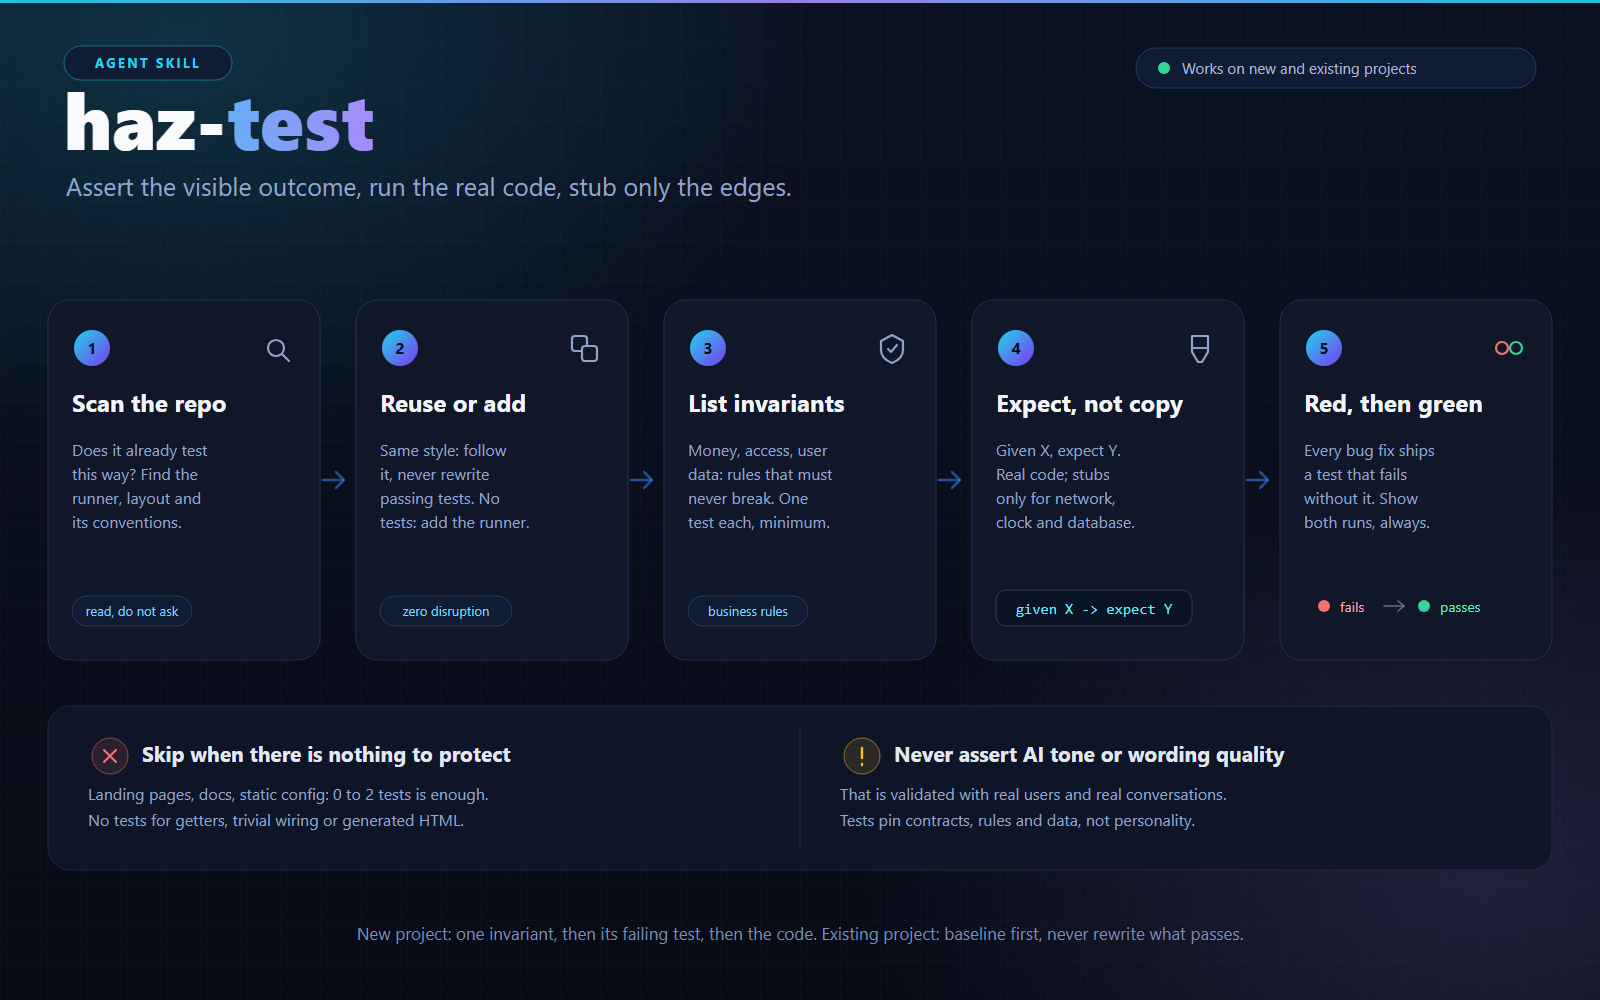
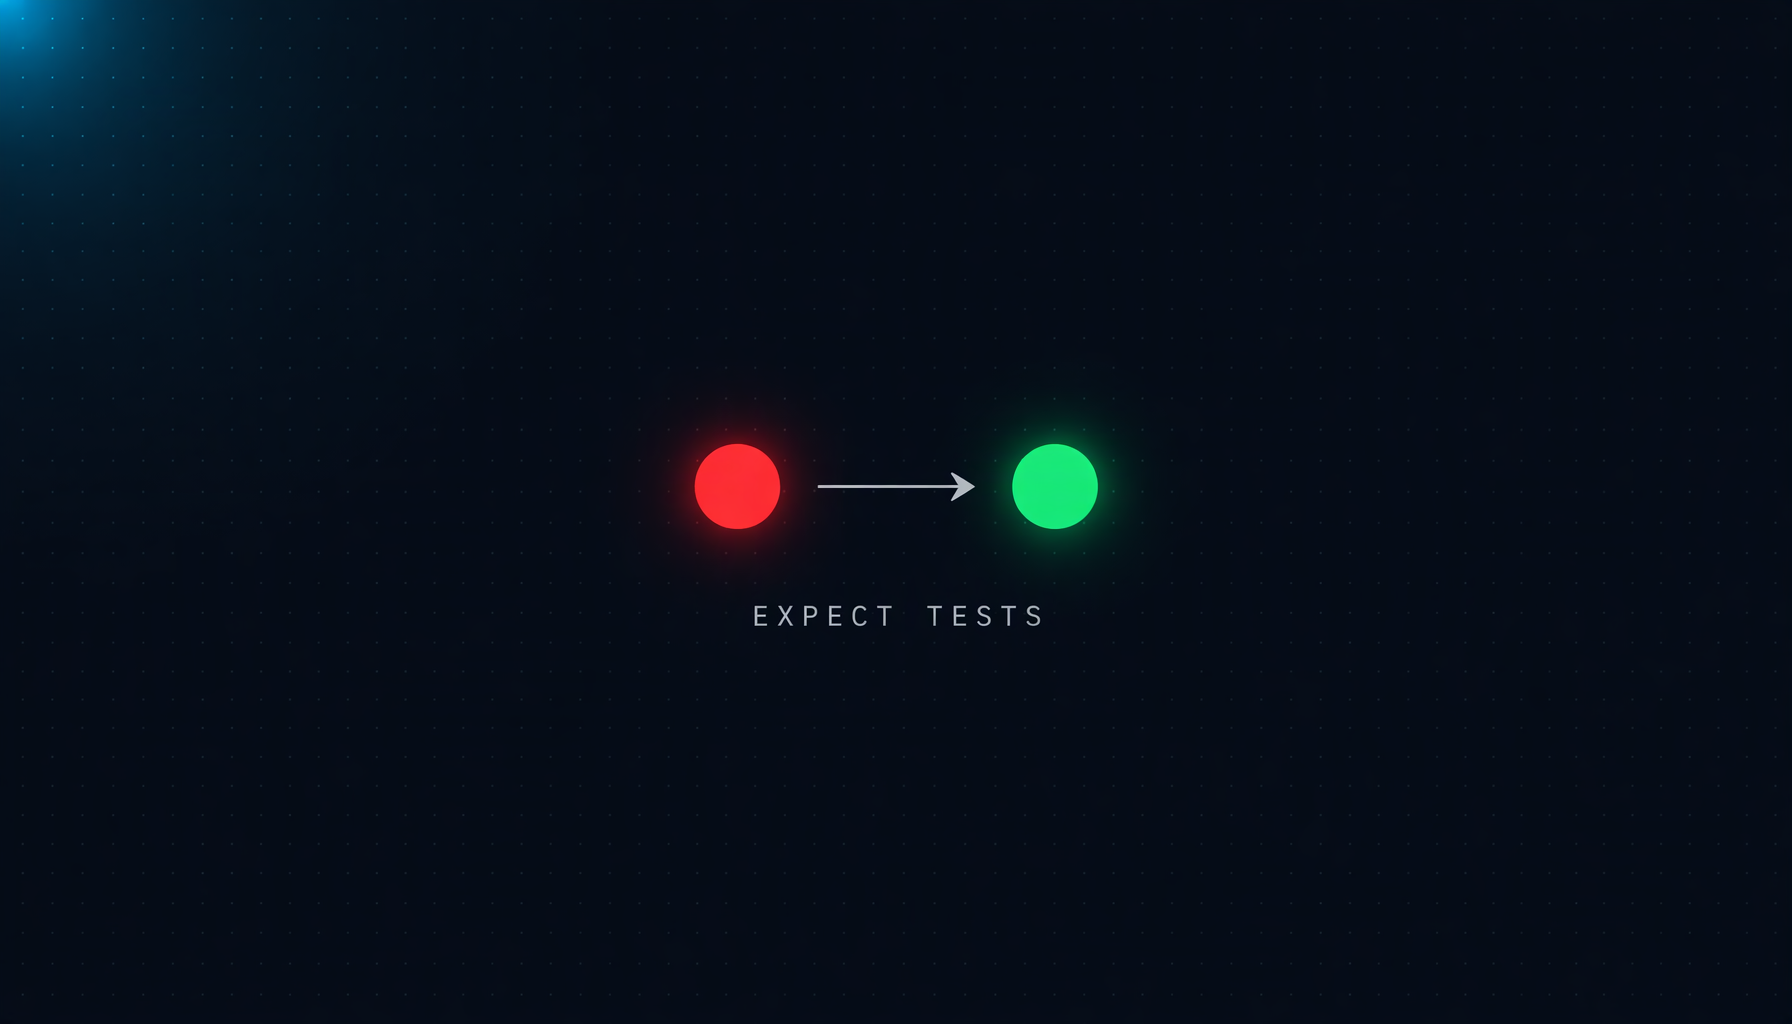
readme: portada minimalista (rojo a verde, EXPECT TESTS)

diff --git a/README.md b/README.md
@@ -1,5 +1,5 @@
 <p align="center">
-  <img src="assets/haz-test.png" alt="How haz-test works: scan the repo, reuse or add, list invariants, expect not copy, red then green" width="100%">
+  <img src="assets/haz-test.png" alt="A red failing-test dot turning green through an arrow: expect tests" width="100%">
 </p>
 
 # haz-test
